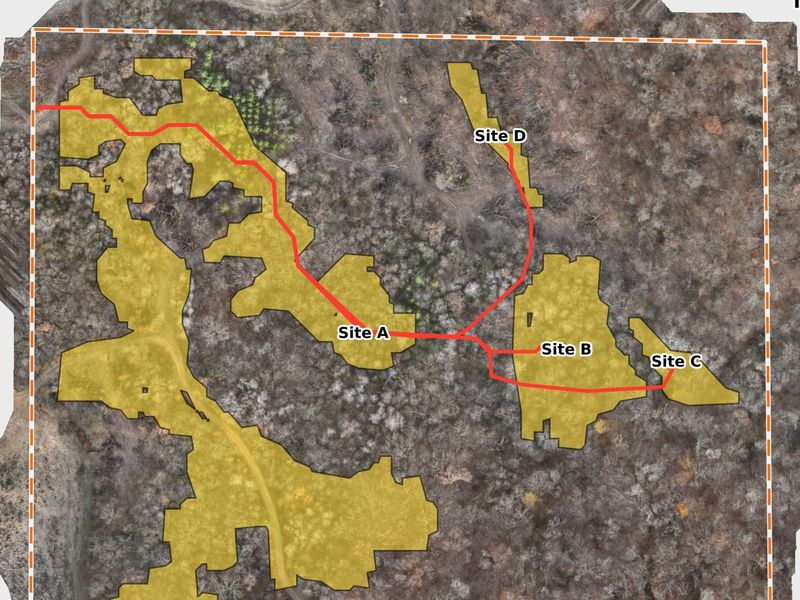
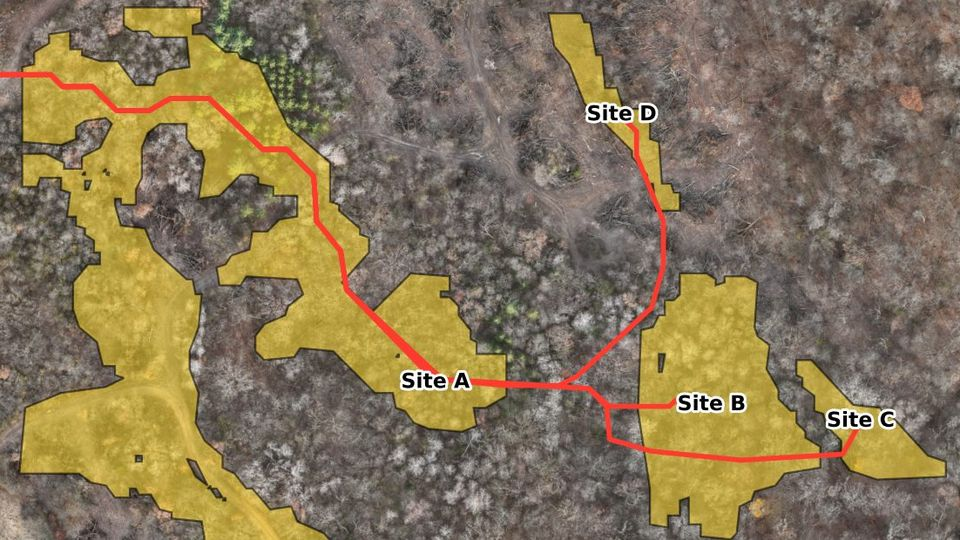
Hamele: 16:9 package thumbnails cropped inside the boundary

diff --git a/hamele/index.html b/hamele/index.html
@@ -286,10 +286,10 @@ footer .tm{color:var(--label);font-weight:500}
 <h2>Four Packages, One Property</h2>
 <p class="body">The same 33-acre example, built out as four client-facing pages in UC Hunting Properties branding. These are the pages your buyers would see, with your branding and contact details on every one. Each page has working downloads that open on a phone, and each package builds on the one before it.</p>
 <div class="li-pk2">
-<a class="pk" href="/hamele/essentials/" target="_blank" rel="noopener"><img src="/hamele/img/pkg/essentials.jpg" alt="Map of floodplain, wetlands, and streams on the 33-acre property" width="800" height="600" loading="lazy" decoding="async"><div class="pk-t"><b>Package 1</b><strong>Essentials</strong><span>What the land is, where the water goes, and what&rsquo;s underfoot: the leaf-off aerial, parcel lines, slope and elevation, floodplain, wetlands, streams, and soils.</span><small>Report (PDF), Google Earth file, GIS layers, 2-ft contours, and the leaf-off aerial.</small><em>Open the Essentials Page &rarr;</em></div></a>
-<a class="pk" href="/hamele/map/" target="_blank" rel="noopener"><img src="/hamele/img/pkg/hunting.jpg" alt="Night thermal map of the 33-acre property" width="800" height="600" loading="lazy" decoding="async"><div class="pk-t"><b>Package 2</b><strong>Hunting &amp; Recreation</strong><span>The interactive map: the terrain read (ridges, draws, benches, and travel hubs), cover and edges, the night thermal deer count, and the full Terrain Guide.</span><small>Two-page property overview, Google Earth file, and GPX and KML files for onX, HuntStand, BaseMap, and Gaia GPS.</small><em>Open the Map Page &rarr;</em></div></a>
-<a class="pk" href="/hamele/due-diligence/" target="_blank" rel="noopener"><img src="/hamele/img/pkg/due-diligence.jpg" alt="Candidate build sites and driveway routes on the aerial" width="800" height="600" loading="lazy" decoding="async"><div class="pk-t"><b>Package 3</b><strong>Buyer Due Diligence</strong><span>Parcels and assessment, zoning and land-use records, candidate build sites with driveway routes, pond screening, geology and wells, what surrounds the property, and USGS maps back to 1907.</span><small>Report (PDF), Google Earth file, GIS layers, records tables, bare-earth LiDAR and drone surface models, and historical USGS maps.</small><em>Open the Due Diligence Page &rarr;</em></div></a>
-<a class="pk" href="/hamele/stewardship/" target="_blank" rel="noopener"><img src="/hamele/img/pkg/stewardship.jpg" alt="Erosion watch lines and repeat photo points on the aerial" width="800" height="600" loading="lazy" decoding="async"><div class="pk-t"><b>Package 4</b><strong>Stewardship</strong><span>For the buyer after closing: the baseline for erosion watch, cover and canopy, repeat photo points, and ongoing deer herd surveys.</span><i class="pay">Paid for by the buyer</i><small>Baseline report (PDF), Google Earth file, GIS layers, and repeat photo points (GPX).</small><em>Open the Stewardship Page &rarr;</em></div></a>
+<a class="pk" href="/hamele/essentials/" target="_blank" rel="noopener"><img src="/hamele/img/pkg/essentials.jpg" alt="Map of floodplain, wetlands, and streams on the 33-acre property" width="960" height="540" loading="lazy" decoding="async"><div class="pk-t"><b>Package 1</b><strong>Essentials</strong><span>What the land is, where the water goes, and what&rsquo;s underfoot: the leaf-off aerial, parcel lines, slope and elevation, floodplain, wetlands, streams, and soils.</span><small>Report (PDF), Google Earth file, GIS layers, 2-ft contours, and the leaf-off aerial.</small><em>Open the Essentials Page &rarr;</em></div></a>
+<a class="pk" href="/hamele/map/" target="_blank" rel="noopener"><img src="/hamele/img/pkg/hunting.jpg" alt="Night thermal map of the 33-acre property" width="960" height="540" loading="lazy" decoding="async"><div class="pk-t"><b>Package 2</b><strong>Hunting &amp; Recreation</strong><span>The interactive map: the terrain read (ridges, draws, benches, and travel hubs), cover and edges, the night thermal deer count, and the full Terrain Guide.</span><small>Two-page property overview, Google Earth file, and GPX and KML files for onX, HuntStand, BaseMap, and Gaia GPS.</small><em>Open the Map Page &rarr;</em></div></a>
+<a class="pk" href="/hamele/due-diligence/" target="_blank" rel="noopener"><img src="/hamele/img/pkg/due-diligence.jpg" alt="Candidate build sites and driveway routes on the aerial" width="960" height="540" loading="lazy" decoding="async"><div class="pk-t"><b>Package 3</b><strong>Buyer Due Diligence</strong><span>Parcels and assessment, zoning and land-use records, candidate build sites with driveway routes, pond screening, geology and wells, what surrounds the property, and USGS maps back to 1907.</span><small>Report (PDF), Google Earth file, GIS layers, records tables, bare-earth LiDAR and drone surface models, and historical USGS maps.</small><em>Open the Due Diligence Page &rarr;</em></div></a>
+<a class="pk" href="/hamele/stewardship/" target="_blank" rel="noopener"><img src="/hamele/img/pkg/stewardship.jpg" alt="Erosion watch lines and repeat photo points on the aerial" width="960" height="540" loading="lazy" decoding="async"><div class="pk-t"><b>Package 4</b><strong>Stewardship</strong><span>For the buyer after closing: the baseline for erosion watch, cover and canopy, repeat photo points, and ongoing deer herd surveys.</span><i class="pay">Paid for by the buyer</i><small>Baseline report (PDF), Google Earth file, GIS layers, and repeat photo points (GPX).</small><em>Open the Stewardship Page &rarr;</em></div></a>
 </div>
 <div class="together gift">
 <h3>Stewardship as Your Closing Gift</h3>
